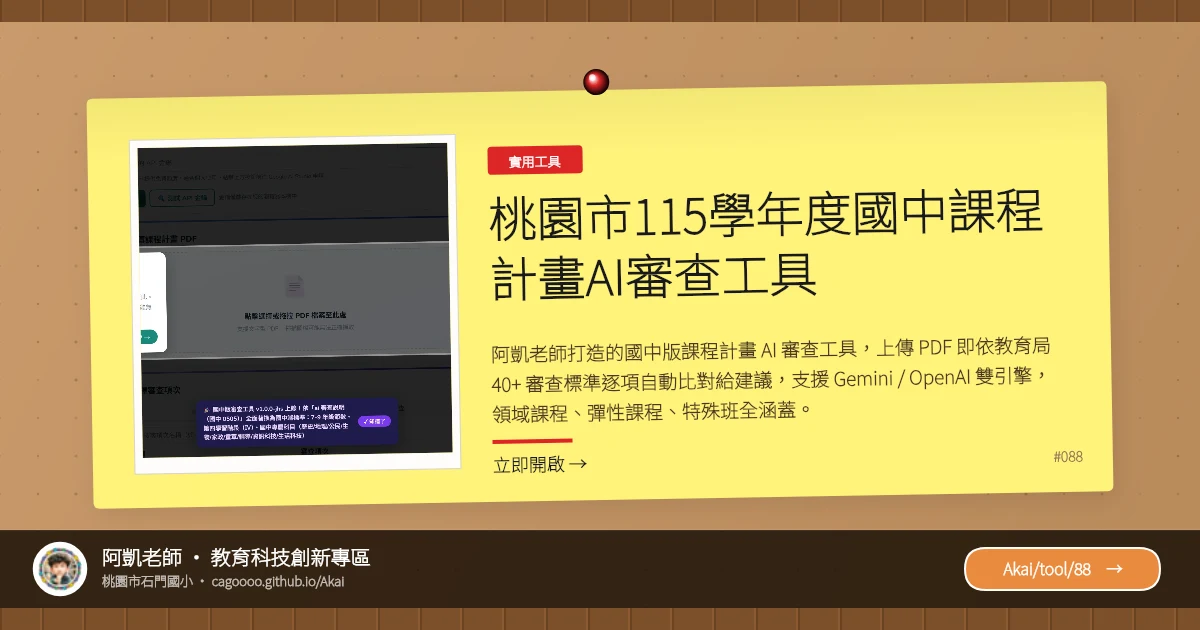
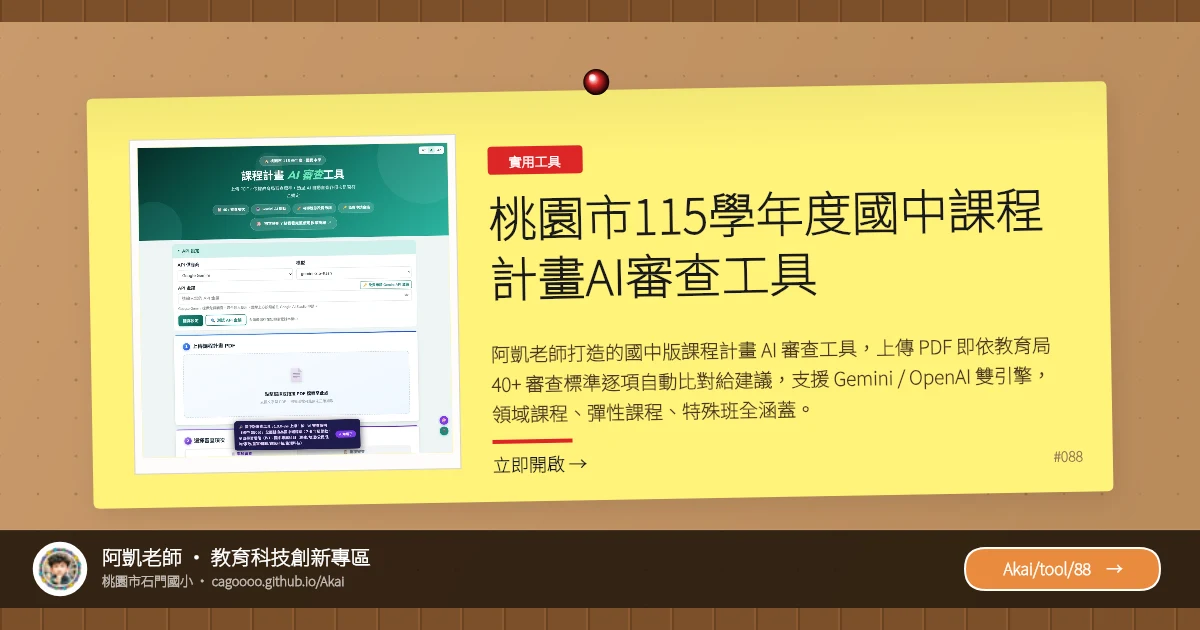
🎨 fix: #88 卡片預覽圖重做 + new-tool.mjs 自動清教學遮罩 v3.6.15
問題：使用者反映 #88 詳情頁拍立得截圖很醜（教學遮罩擋住 hero 區）

根因：JHScurriculum 第一屏有漂亮綠色 hero（金色大標 + 4 分類膠囊）
但 driver.js「步驟 1/5」教學對話框預設啟動會擋住

修法：
1. 重截 #88：addInitScript 設 tyc_tut_done='1' 等 dismiss flag
   再截一次乾淨 hero。連帶 OG 圖也自動跟著漂亮（OG 圖左側嵌
   入 polaroid 截圖即此檔）
2. 強化 scripts/new-tool.mjs screenshotUrl 函式：
   - viewport 1280×800 → 1280×1280（避免 cover crop 切掉 hero）
   - addInitScript 預設 13 個常見 dismiss localStorage key
   - 截圖前 evaluate 移除 driver.js / shepherd / intro.js / cookie
     banner 等 overlay class
   - 還原 body.overflow

3. 同步更新 ~/.claude/skills/og-social-preview-zh 寫入兩個雷區
   （commit 5343337 in skills repo）

未來新增工具走 new-tool 流程不會再踩同樣坑。

版本 3.6.14 → 3.6.15

Changed region(s): [[0.0925, 0.2111, 0.4008, 0.7238]]

diff --git a/client/public/sw.js b/client/public/sw.js
@@ -7,7 +7,7 @@
  * - Stale While Revalidate: 圖片
  */
 
-const CACHE_VERSION = 'v3.6.14-594d1d7-202605051746';
+const CACHE_VERSION = 'v3.6.15-c4ab347-202605051909';
 const STATIC_CACHE = `static-${CACHE_VERSION}`;
 const DYNAMIC_CACHE = `dynamic-${CACHE_VERSION}`;
 const ASSETS_ARCHIVE = 'assets-archive-v1';

diff --git a/CHANGELOG.md b/CHANGELOG.md
@@ -2,6 +2,36 @@
 
 此文件記錄專案的所有重要變更。
 
+## [3.6.15] - 2026-05-05 — 修正 #88 卡片預覽圖 + new-tool.mjs 自動清教學遮罩
+### 🎨 #88 卡片預覽圖重做
+使用者反映 #88 詳情頁拍立得內的截圖很醜（看起來像 PDF 上傳區、灰暗 + 教學遮罩擋住）。追查發現 JHScurriculum 網站第一屏其實有非常漂亮的綠色 hero 區（金色「課程計畫 AI 審查工具」大標題 + 4 個分類膠囊），但 Playwright 預設截圖會被 driver.js 的「步驟 1/5」教學對話框遮住。
+
+**修法**：截圖前先 `addInitScript` 設 `tyc_tut_done = '1'` 等 dismiss flag，讓 driver.js 不啟動，再截一次乾淨的 hero 區。新版 `tool_88.webp` 從 39 KB → 67 KB（內容更豐富）但視覺品質大幅提升。
+
+**連帶受惠**：`generate-unified-og.mjs` 會把卡片預覽圖嵌入 OG 圖左側 polaroid，所以 OG 社群分享圖 (`og/tool_88.webp`) 也自動跟著漂亮。
+
+### 🤖 `scripts/new-tool.mjs` 強化截圖邏輯（避免再踩同樣坑）
+根據 #88 經驗，把 `screenshotUrl` 函式升級：
+- viewport 從 1280×800 改為 1280×1280（避免 cover crop 切掉 hero）
+- 新增 `addInitScript` 預先設定常見 dismiss localStorage key（`tour_complete` / `onboarding_done` / `hasSeenTour` / `tyc_tut_done` 等 13 個常用 key）
+- 新增截圖前 `evaluate` 移除常見 popup overlay class（driver.js / Shepherd.js / intro.js / cookie banner / 自製公告）
+- 還原可能被遮罩鎖住的 `body.style.overflow`
+
+未來新增工具走 `npm run new-tool` 流程時，截圖會自動跳過教學遮罩、抓到網站真正的 hero 區。
+
+### 📝 同步更新 `~/.claude/skills/og-social-preview-zh`
+把這次踩到的坑寫進 OG skill：
+- 兩支腳本欄位錯配（v3.6.14 那個雷）
+- 截圖前必清教學遮罩、cookie banner（v3.6.15 這個雷）
+- 含 grep 網站 source 找 dismiss key 的指引
+
+下次跨專案做 OG 圖時不會再犯。
+
+### 🧹 內部
+- 版本 3.6.14 → 3.6.15
+
+---
+
 ## [3.6.14] - 2026-05-05 — 修正：社群分享 OG 圖指錯成卡片截圖（影響全部 88 張）
 ### 🐛 嚴重 Bug 修正：og:image 全部用錯
 使用者反映 FB 分享 #88 卡片時，預覽圖只是「網站截圖」很不專業。追查發現 `scripts/generate-og-pages.mjs:35` 的 `og:image` URL **只讀 `previewUrl`（卡片內截圖）**，**完全忽略 `tool.ogPreviewUrl`**——而 `tool.ogPreviewUrl` 才是 `generate-unified-og.mjs` 用 cork-board 公佈欄風格 + 便利貼大標 + 阿凱署名 + URL 膠囊精心設計過的 1200×630 社群分享圖。

diff --git a/README.md b/README.md
@@ -1,6 +1,6 @@
 # 教育科技創新專區 - 阿凱老師
 
-![Version](https://img.shields.io/badge/version-3.6.14-brightgreen.svg)
+![Version](https://img.shields.io/badge/version-3.6.15-brightgreen.svg)
 ![License](https://img.shields.io/badge/license-MIT-blue.svg)
 ![Node.js](https://img.shields.io/badge/Node.js-20.x-green.svg)
 ![TypeScript](https://img.shields.io/badge/TypeScript-5.6.3-blue.svg)